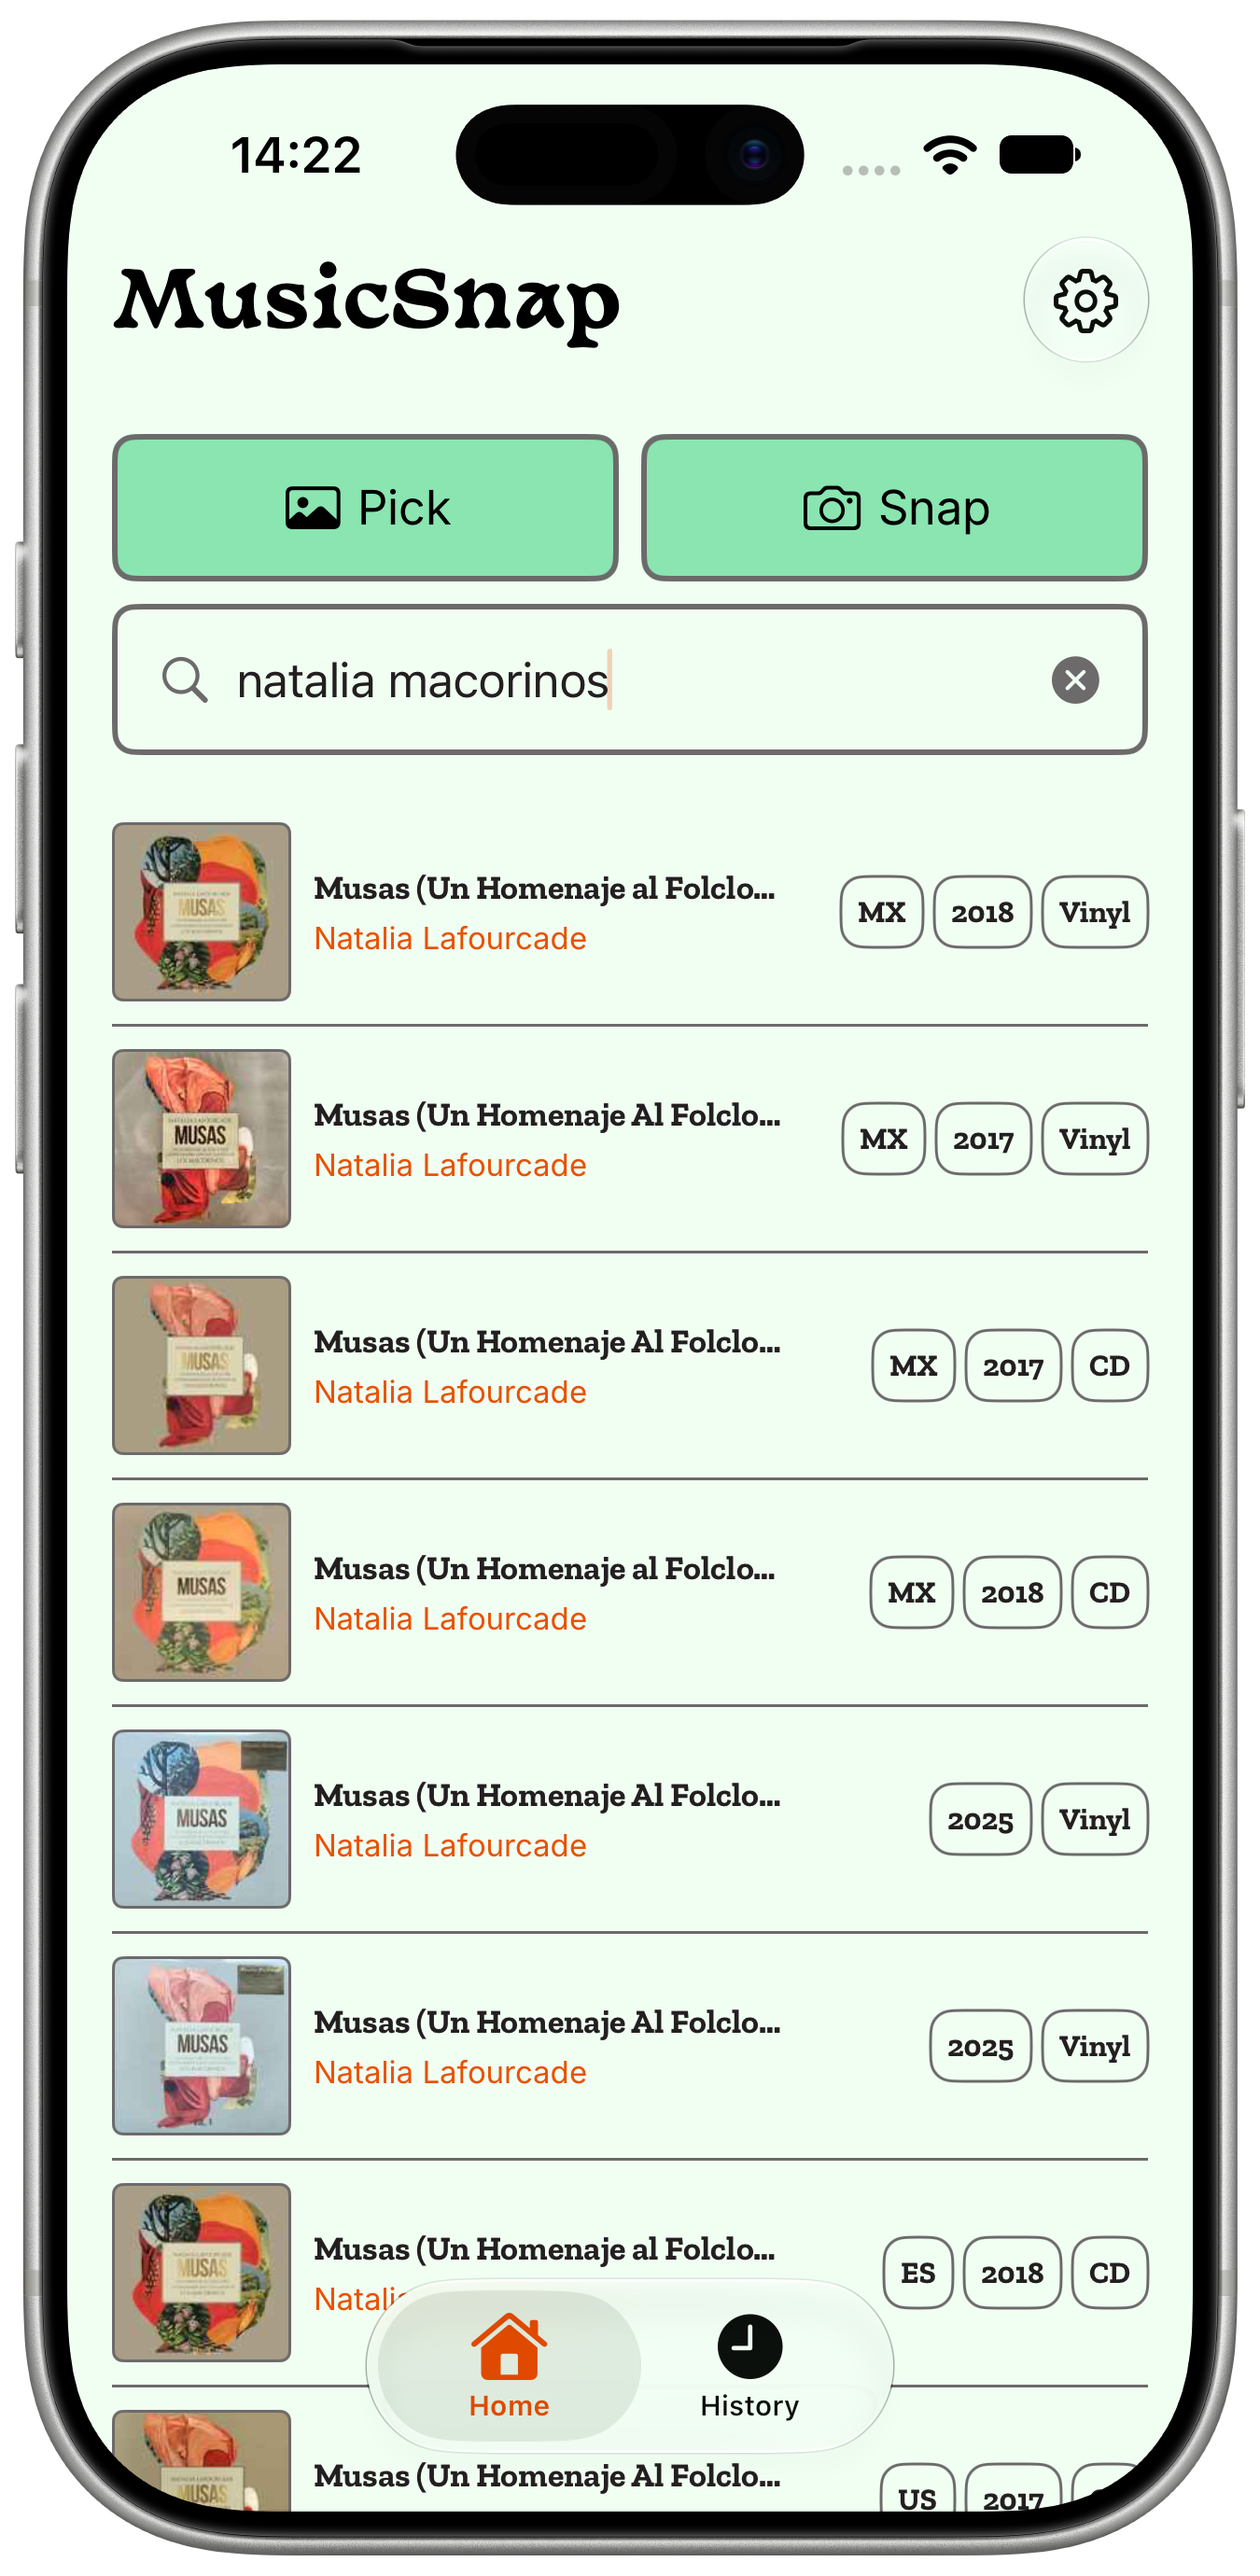
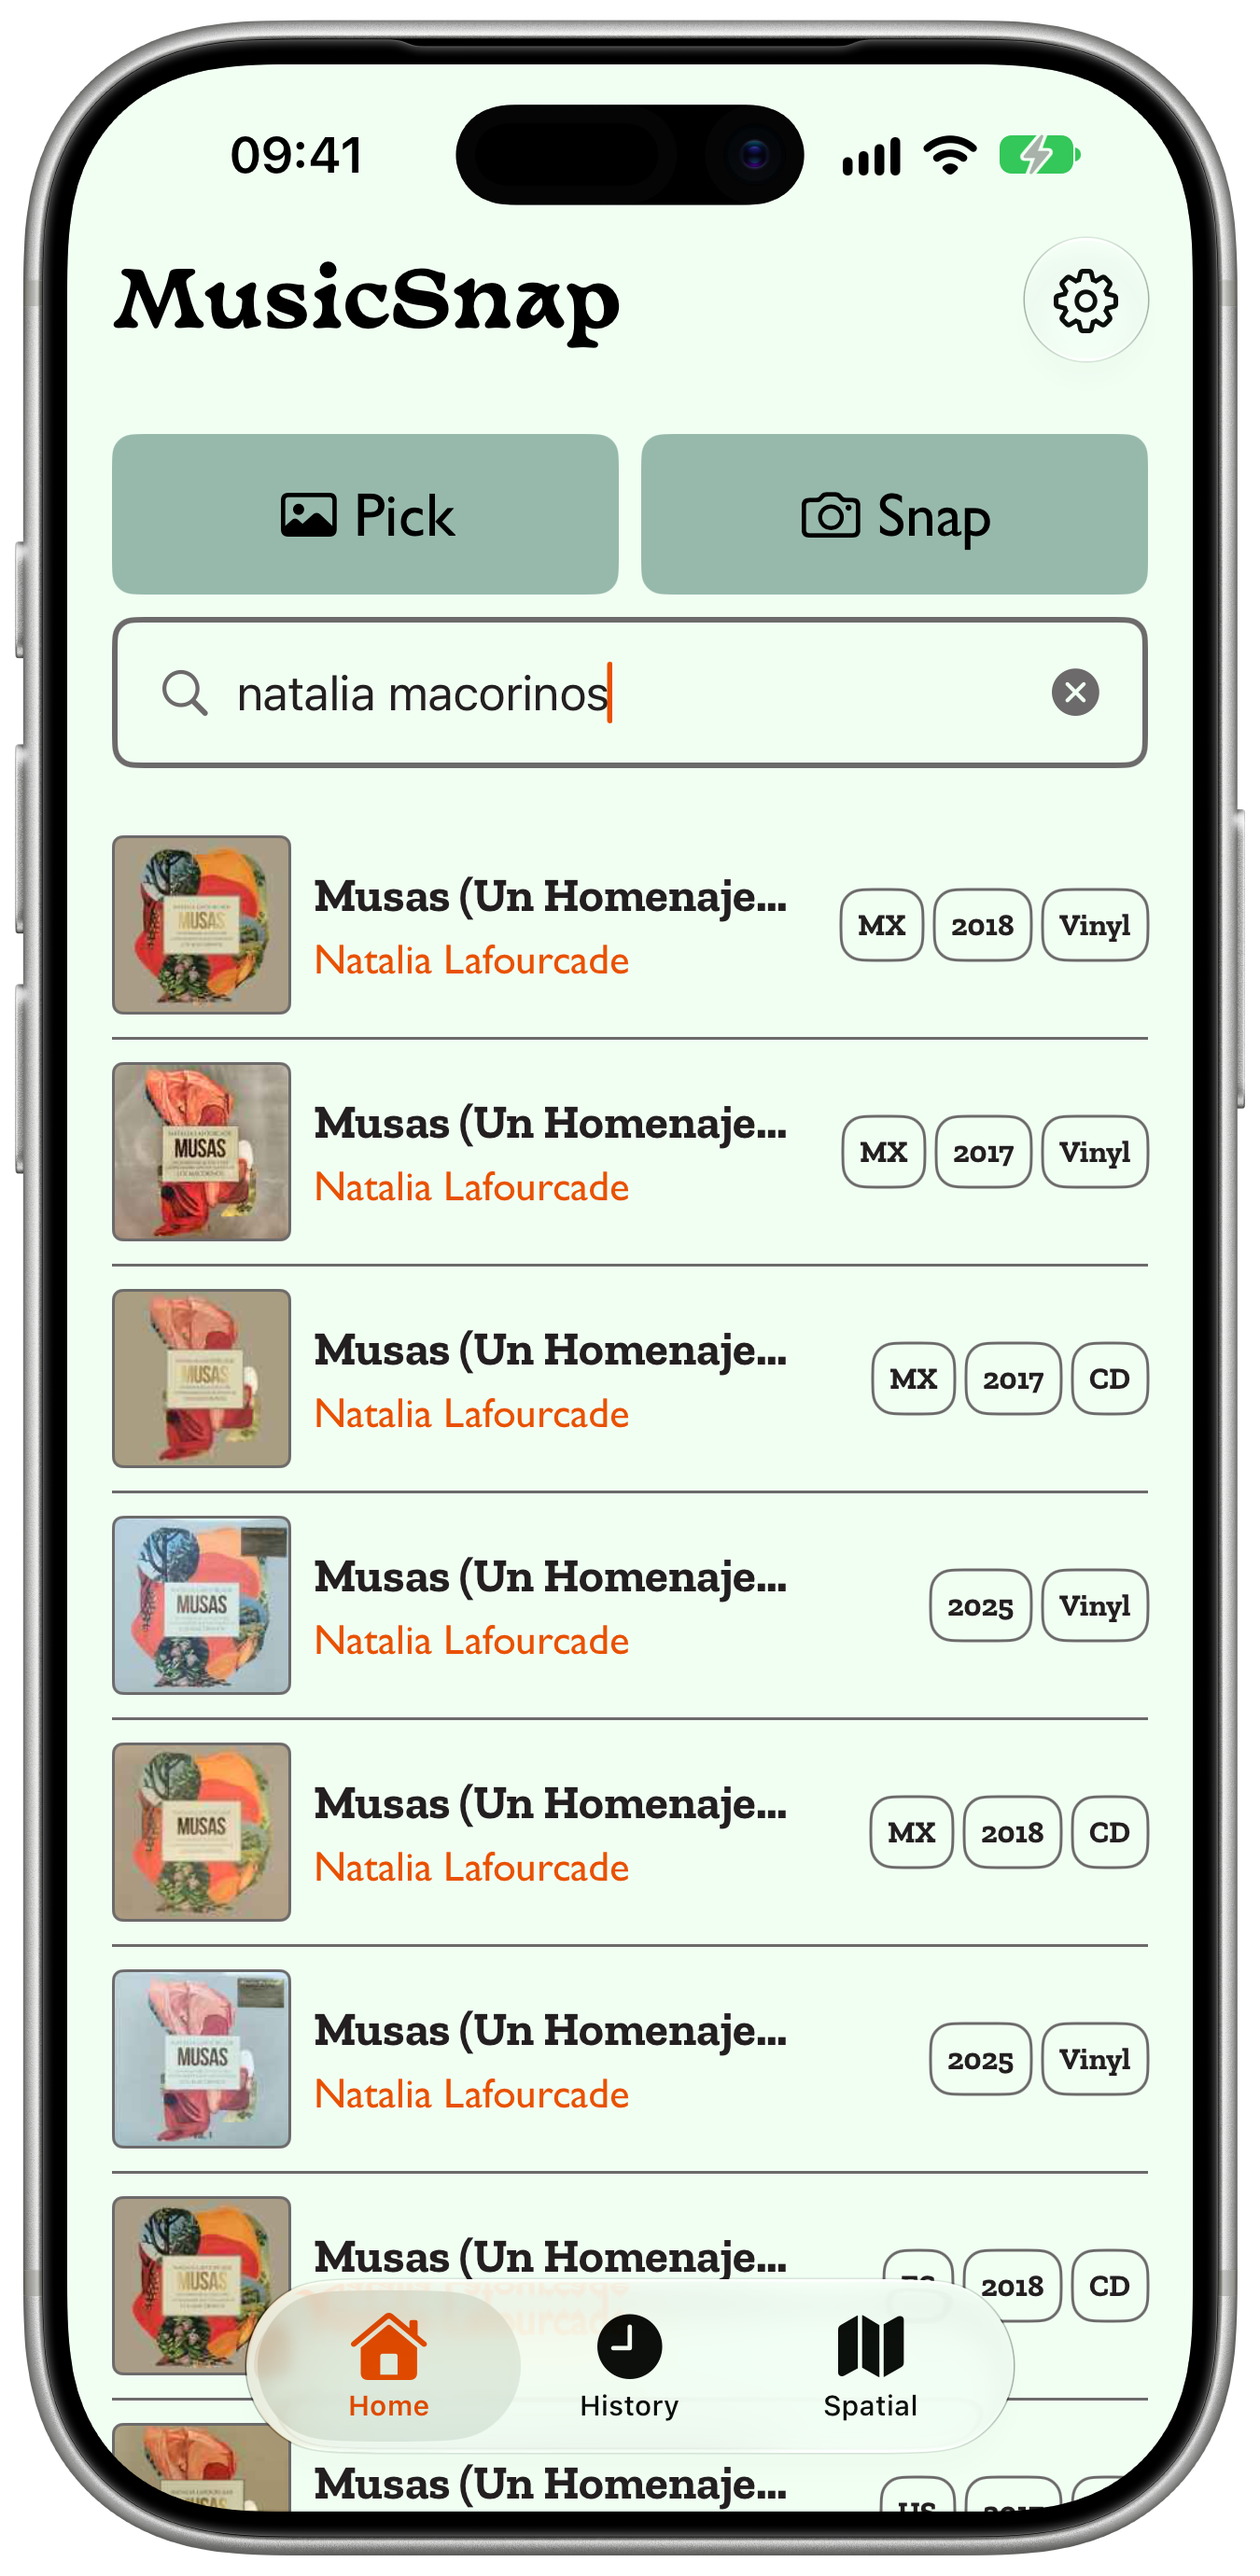
chore(readme): update screenshots.

diff --git a/README.md b/README.md
@@ -14,9 +14,11 @@
 </p>
 
 <p align="center">
-  <img src="assets/screen1.png" width="30%" alt="MusicSnap search results">
+  <img src="assets/screen1.png" width="20%" alt="MusicSnap search">
   &nbsp;&nbsp;
-  <img src="assets/screen2.png" width="30%" alt="MusicSnap history">
+  <img src="assets/screen2.png" width="20%" alt="MusicSnap history">
   &nbsp;&nbsp;
-  <img src="assets/screen3.png" width="30%" alt="MusicSnap album details">
+  <img src="assets/screen3.png" width="20%" alt="MusicSnap details">
+  &nbsp;&nbsp;
+  <img src="assets/screen4.png" width="20%" alt="MusicSnap spatial">
 </p>
